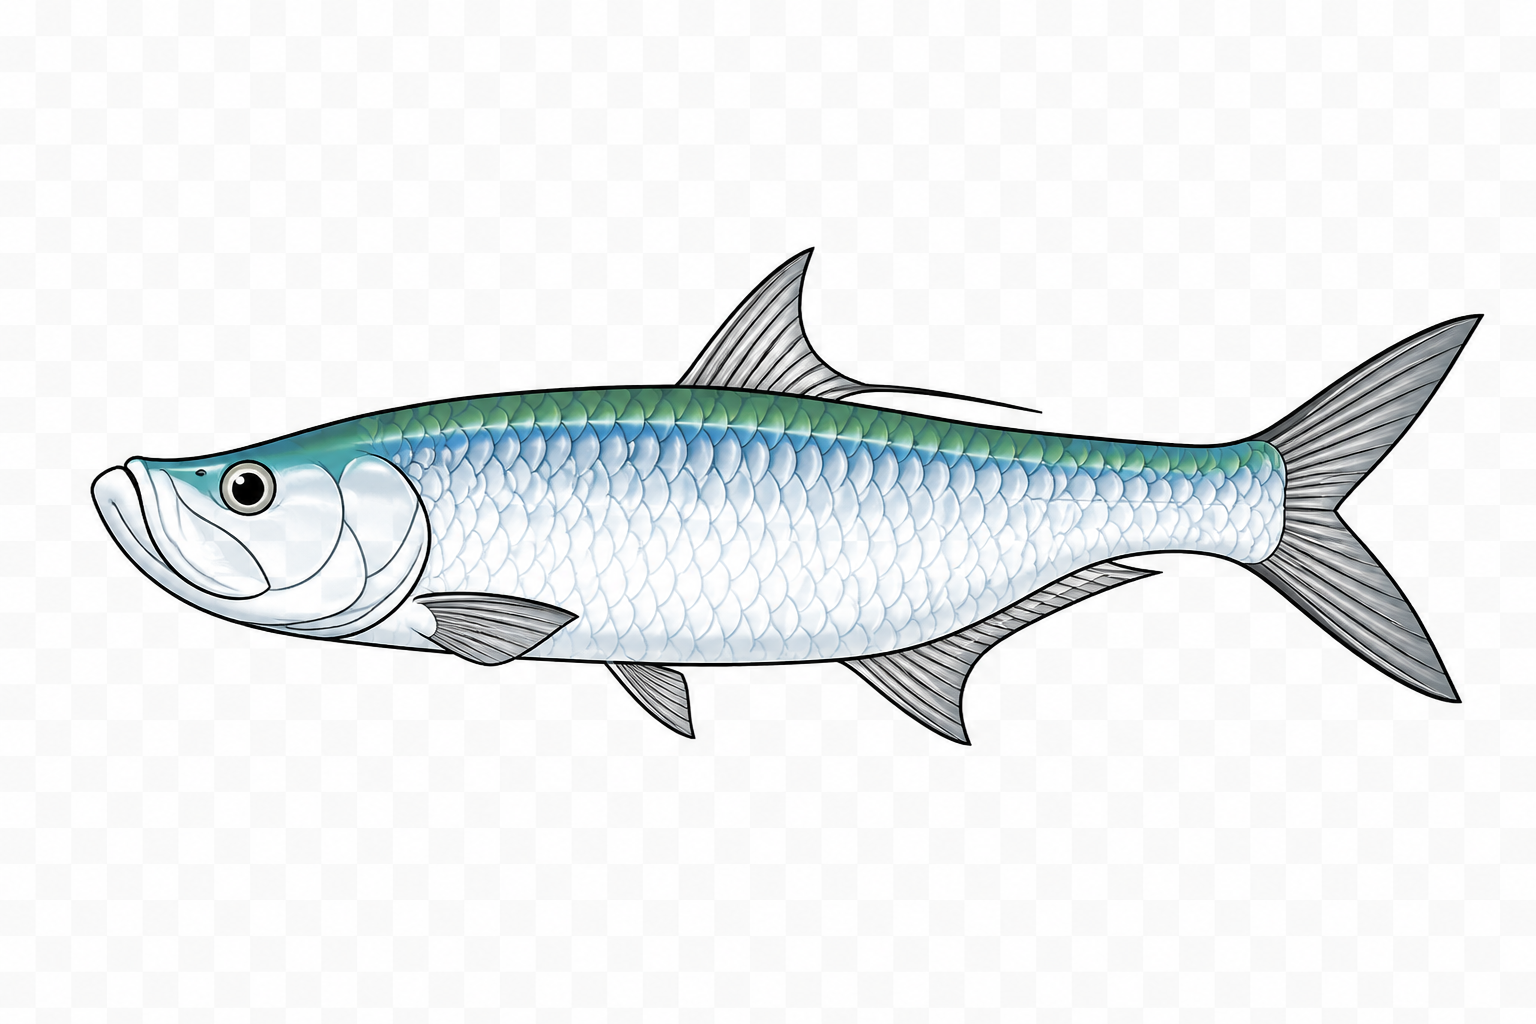
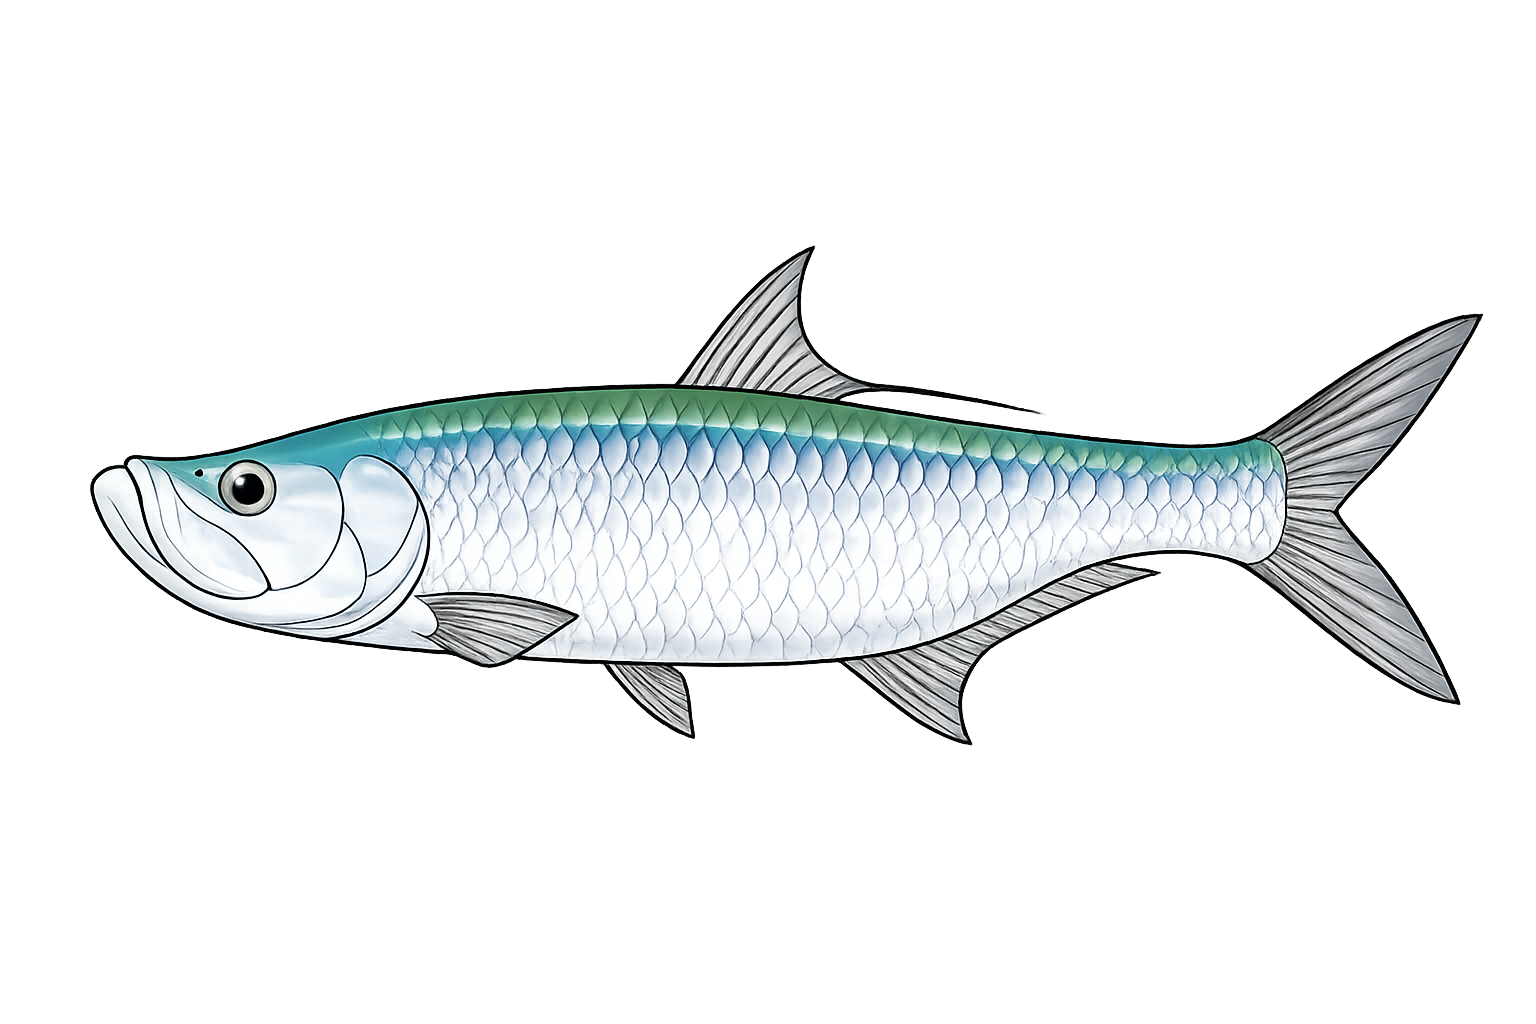
Seasons last 5 days; update Tarpon (and Sheepshead) art
- Seasons now run 5 in-game days each, cycling spring -> summer -> fall ->
  winter (a 20-day year). Updated seasonNow, SEASON_LEN, and the clock wrap.
  The lunar cycle still completes once per season, so all 8 moon phases occur
  within each 5-day season.
- Refreshed Tarpon and Sheepshead raster art (still 1536x1024, left-facing, so
  no renderer change needed).

Changed region(s): [[0.0625, 0.25, 0.9688, 0.7188]]

diff --git a/index.html b/index.html
@@ -3642,7 +3642,7 @@ function hourNow(){return (S.clock%1440)/60;}
 function seasonNow(){
   // A tournament is held entirely during one randomly chosen season.
   if(activeTournament&&activeTournament.season)return activeTournament.season;
-  return SEASONS[Math.floor(S.clock/(1440*10))%4];
+  return SEASONS[Math.floor(S.clock/(1440*5))%4];
 }
 function dayNum(){return Math.floor(S.clock/1440)+1;}
 function phaseOf(h){if(h<5||h>=19)return 'night';if(h<7)return 'dawn';if(h<17)return 'day';return 'dusk';}
@@ -3665,7 +3665,7 @@ const MOON_PHASES=[
   {id:'lastq',       name:'Last Quarter',      icon:'moon-lastq',        mul:1.00},
   {id:'wancrescent', name:'Waning Crescent',   icon:'moon-wancrescent',  mul:0.92},
 ];
-const SEASON_LEN=1440*10; // a season is exactly 10 in-game days
+const SEASON_LEN=1440*5; // a season is exactly 5 in-game days
 function currentMoonPhase(){
   // One full 8-phase lunar cycle per season: every moon phase happens once in
   // each 10-day season and the cycle restarts cleanly when the season changes.
@@ -5542,7 +5542,7 @@ function render(ts){
     const prog=(activeTournament.def&&activeTournament.def.coop)?(raw%1):Math.min(1,raw);
     S.clock=TOURN_DAY_START+prog*1440;
   }else{
-    S.clock+=dt*MIN_PER_SEC; if(S.clock>1440*40)S.clock-=1440*40; // 40-day year (10 days per season)
+    S.clock+=dt*MIN_PER_SEC; if(S.clock>1440*20)S.clock-=1440*20; // 20-day year (5 days per season)
   }
   const h=hourNow(),sky=skyState(h),t=ts/1000;
 